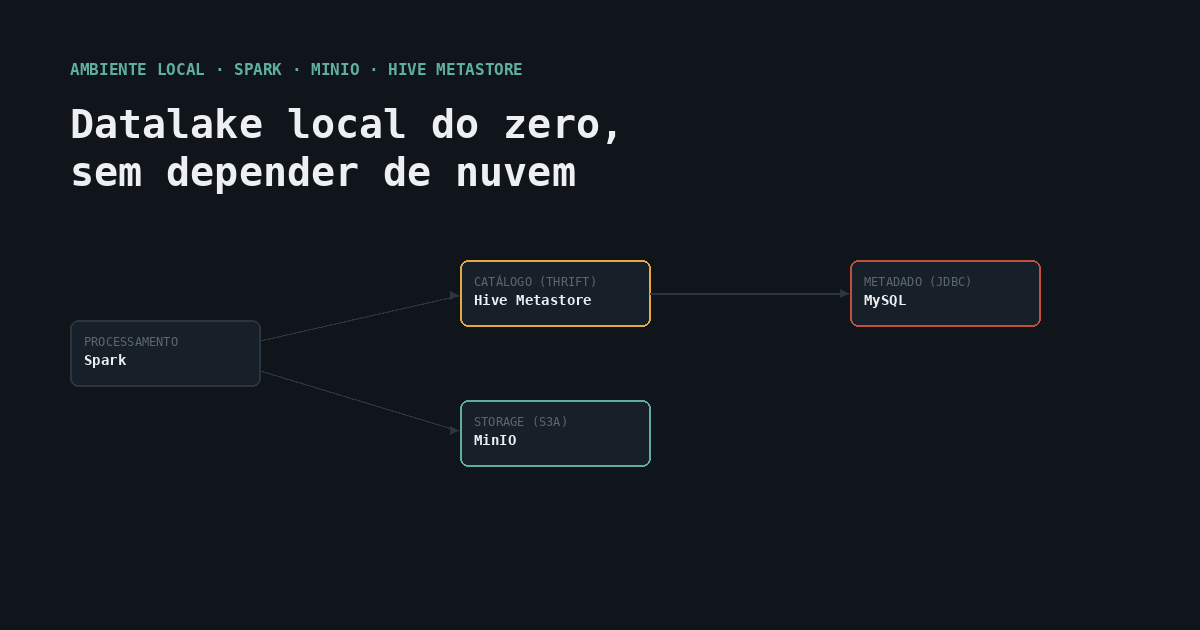
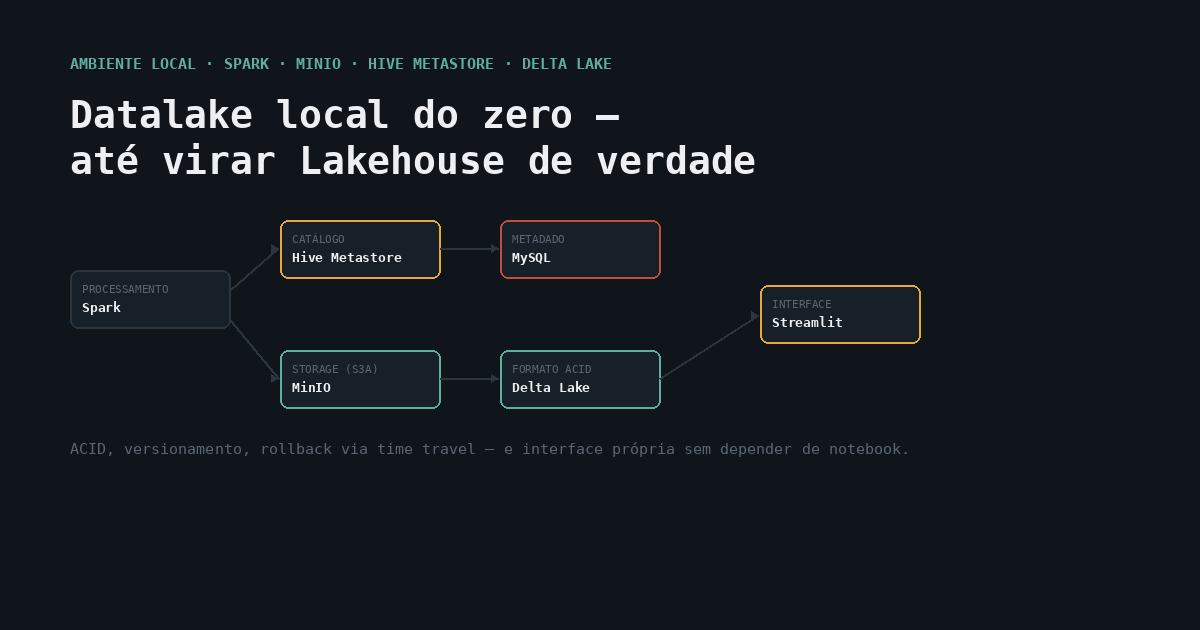
Add files via upload

diff --git a/datalake_local.html b/datalake_local.html
@@ -3,11 +3,11 @@
 <head>
 <meta charset="UTF-8">
 <meta name="viewport" content="width=device-width, initial-scale=1.0">
-<title>Ed Kazuo Kuno — Datalake local do zero: Spark + MinIO + Hive Metastore</title>
+<title>Ed Kazuo Kuno — Datalake local do zero: Spark, MinIO, Hive Metastore, Delta Lake e Streamlit</title>
 
 <meta property="og:type" content="website">
-<meta property="og:title" content="Datalake local do zero: Spark + MinIO + Hive Metastore (MySQL, não Derby)">
-<meta property="og:description" content="Setup completo de ambiente Lakehouse local em Linux — e por que Derby, o metastore padrão do Hive, não serve para nada além de teste isolado de uma sessão.">
+<meta property="og:title" content="Datalake local do zero: Spark, MinIO, Delta Lake e Streamlit">
+<meta property="og:description" content="Setup completo de ambiente Lakehouse local em Linux — MySQL no lugar de Derby, ACID e rollback via Delta Lake, e interface em Streamlit por cima.">
 <meta property="og:image" content="https://edkazuo.github.io/services/cover_datalake_local.png">
 <meta property="og:url" content="https://edkazuo.github.io/services/datalake_local.html">
 <meta name="twitter:card" content="summary_large_image">
@@ -105,9 +105,9 @@
 
 <header class="hero">
   <div class="wrap">
-    <div class="eyebrow">Ambiente Local · Spark · MinIO · Hive Metastore</div>
-    <h1>Datalake local do zero, sem depender de nuvem</h1>
-    <p class="lede">Spark para processar, MinIO como storage compatível com S3, e Hive Metastore com <strong>MySQL</strong> — não Derby — como catálogo. Tudo rodando num único Linux, replicando a arquitetura de um Lakehouse de verdade em escala reduzida.</p>
+    <div class="eyebrow">Ambiente Local · Spark · MinIO · Hive Metastore · Delta Lake</div>
+    <h1>Datalake local do zero — até virar Lakehouse de verdade</h1>
+    <p class="lede">Spark para processar, MinIO como storage compatível com S3, Hive Metastore com <strong>MySQL</strong> como catálogo, <strong>Delta Lake</strong> trazendo transação ACID e versionamento — e uma interface em Streamlit por cima, pra não depender de notebook pra explorar o dado.</p>
 
     <div class="diagram-window">
       <div class="diagram-titlebar">
@@ -170,6 +170,25 @@
       <div class="label">O erro que aparece na prática</div>
       <pre>ERROR XSDB6: Another instance of Derby may have already booted
 the database /home/user/metastore_db.</pre>
+    </div>
+  </div>
+</section>
+
+<section class="delta-acid">
+  <div class="wrap">
+    <div class="eyebrow">Por que Delta Lake</div>
+    <h2>O mundo analytics nunca teve "commit" e "rollback" — até agora</h2>
+    <p class="section-lede">Banco transacional sempre teve essa garantia embutida: ou a transação inteira acontece, ou nada acontece, e dá pra desfazer. Parquet puro sobre um data lake nunca teve isso.</p>
+
+    <div class="cs-grid">
+      <div class="cs-card challenge">
+        <div class="cs-label">Parquet puro (sem Delta)</div>
+        <p>Escrita não é atômica entre múltiplos arquivos — um job que falha no meio pode deixar dado parcial. Não existe isolamento entre quem lê e quem escreve. E se um <code>OVERWRITE</code> ou <code>UPDATE</code> sair errado, <strong>não existe "desfazer"</strong> — só reprocessar tudo de novo a partir da fonte, se ainda existir.</p>
+      </div>
+      <div class="cs-card solution">
+        <div class="cs-label">Delta Lake</div>
+        <p>Mantém um log de transação (<code>_delta_log</code>) por trás do Parquet — cada escrita vira uma <strong>versão nova, atômica</strong>. Isso dá exatamente o que faltava: <code>MERGE</code>/<code>UPDATE</code>/<code>DELETE</code> com garantia ACID, e <strong>time travel</strong> — a capacidade real de voltar para qualquer versão anterior da tabela.</p>
+      </div>
     </div>
   </div>
 </section>
@@ -285,6 +304,116 @@ spark.sql(<span class="str">"INSERT INTO vendas VALUES (1, 99.90)"</span>)</pre>
 <span class="cm"># com Derby, a sessão 2 nem conseguiria abrir. Com MySQL, funciona.</span></pre>
         </div>
       </li>
+
+      <li class="step">
+        <div class="step-head"><span class="step-num mono">06</span><span class="step-title">Adicionar Delta Lake ao Spark</span></div>
+        <div class="step-body">Duas configurações extras habilitam o formato Delta — depois disso, toda tabela criada com <code style="font-family:'IBM Plex Mono',monospace;color:var(--mint);">USING DELTA</code> passa a ter transação ACID e versionamento automático.</div>
+        <div class="snippet">
+          <div class="snippet-title">spark-defaults.conf — acrescentar</div>
+          <pre>spark.jars.packages                      <span class="str">io.delta:delta-spark_2.12:3.2.0</span>
+spark.sql.extensions                     <span class="str">io.delta.sql.DeltaSparkSessionExtension</span>
+spark.sql.catalog.spark_catalog          <span class="str">org.apache.spark.sql.delta.catalog.DeltaCatalog</span></pre>
+        </div>
+        <div class="snippet">
+          <div class="snippet-title">pyspark — recriando a tabela em Delta</div>
+          <pre>spark.sql(<span class="str">"""
+    CREATE TABLE vendas (id INT, valor DOUBLE)
+    USING DELTA
+    LOCATION 's3a://warehouse/vendas'
+"""</span>)</pre>
+        </div>
+      </li>
+
+      <li class="step">
+        <div class="step-head"><span class="step-num mono">07</span><span class="step-title">Provar o rollback de verdade</span></div>
+        <div class="step-body">O teste que mostra o ganho real: gerar um "erro de produção", e voltar no tempo sem precisar reprocessar nada.</div>
+        <div class="snippet">
+          <div class="snippet-title">pyspark — o "oops"</div>
+          <pre>spark.sql(<span class="str">"INSERT INTO vendas VALUES (1, 99.90), (2, 150.00)"</span>)
+
+<span class="cm"># alguém roda um UPDATE errado em produção</span>
+spark.sql(<span class="str">"UPDATE vendas SET valor = 0"</span>)  <span class="cm"># zerou tudo, por engano</span></pre>
+        </div>
+        <div class="snippet">
+          <div class="snippet-title">pyspark — o rollback</div>
+          <pre><span class="cm"># ver o histórico de versões da tabela</span>
+spark.sql(<span class="str">"DESCRIBE HISTORY vendas"</span>).show()
+
+<span class="cm"># consultar como estava ANTES do erro, sem restaurar nada ainda</span>
+spark.sql(<span class="str">"SELECT * FROM vendas VERSION AS OF 1"</span>).show()
+
+<span class="cm"># restaurar a tabela de verdade para aquela versão -- o "rollback"</span>
+spark.sql(<span class="str">"RESTORE TABLE vendas TO VERSION AS OF 1"</span>)</pre>
+        </div>
+      </li>
+
+      <li class="step">
+        <div class="step-head"><span class="step-num mono">08</span><span class="step-title">Interface em Streamlit</span></div>
+        <div class="step-body">Sem precisar subir uma sessão Spark inteira só pra visualizar — a biblioteca <code style="font-family:'IBM Plex Mono',monospace;color:var(--mint);">deltalake</code> (bindings Rust) lê a tabela direto do MinIO, leve o suficiente para uma interface web simples.</div>
+        <div class="snippet">
+          <div class="snippet-title">bash</div>
+          <pre><span class="kw">pip</span> install streamlit deltalake pandas</pre>
+        </div>
+        <div class="snippet">
+          <div class="snippet-title">app.py</div>
+          <pre><span class="kw">import</span> streamlit <span class="kw">as</span> st
+<span class="kw">import</span> os
+<span class="kw">from</span> deltalake <span class="kw">import</span> DeltaTable
+
+os.environ[<span class="str">"AWS_ACCESS_KEY_ID"</span>] = <span class="str">"minioadmin"</span>
+os.environ[<span class="str">"AWS_SECRET_ACCESS_KEY"</span>] = <span class="str">"minioadmin"</span>
+os.environ[<span class="str">"AWS_ENDPOINT_URL"</span>] = <span class="str">"http://localhost:9000"</span>
+os.environ[<span class="str">"AWS_ALLOW_HTTP"</span>] = <span class="str">"true"</span>
+
+st.title(<span class="str">"Vendas — Lakehouse local"</span>)
+
+dt = DeltaTable(<span class="str">"s3://warehouse/vendas"</span>)
+versao = st.select_slider(
+    <span class="str">"Versão (time travel)"</span>,
+    options=<span class="kw">list</span>(<span class="kw">range</span>(dt.version() + 1)),
+    value=dt.version(),
+)
+
+dt_versionada = DeltaTable(<span class="str">"s3://warehouse/vendas"</span>, version=versao)
+st.dataframe(dt_versionada.to_pandas())
+st.caption(<span class="str">f"Exibindo versão {versao} de {dt.version()}"</span>)</pre>
+        </div>
+        <div class="snippet">
+          <div class="snippet-title">bash — subir a interface</div>
+          <pre><span class="kw">streamlit</span> run app.py</pre>
+        </div>
+      </li>
+
+      <li class="step">
+        <div class="step-head"><span class="step-num mono">09</span><span class="step-title">Consultar via DBeaver (ou qualquer cliente SQL)</span></div>
+        <div class="step-body">Streamlit é ótimo pra visualização fixa, mas analista de negócio geralmente quer SQL livre, num cliente que já conhece. Isso exige uma peça diferente do Hive Metastore Thrift (que só serve metadado): o <strong>Spark Thrift Server</strong>, que expõe o Spark inteiro via JDBC/ODBC.</div>
+        <div class="snippet">
+          <div class="snippet-title">bash — subir o Spark Thrift Server</div>
+          <pre><span class="cm"># usa a mesma config do spark-defaults.conf já configurada</span>
+$SPARK_HOME/sbin/start-thriftserver.sh \
+  --hiveconf hive.server2.thrift.port=10000 \
+  --hiveconf hive.server2.thrift.bind.host=0.0.0.0</pre>
+        </div>
+        <div class="snippet">
+          <div class="snippet-title">DBeaver — configuração da conexão</div>
+          <pre><span class="cm"># Nova Conexão → Apache Hive (o driver do Hive fala com Spark Thrift Server)</span>
+Host:      <span class="str">localhost</span>
+Porta:     <span class="str">10000</span>
+Banco:     <span class="str">default</span>
+Usuário:   <span class="str">(deixe em branco ou "anonymous")</span>
+
+<span class="cm"># DBeaver baixa o driver JDBC do Hive automaticamente na primeira conexão</span></pre>
+        </div>
+        <div class="snippet">
+          <div class="snippet-title">DBeaver — SQL editor, já enxergando o catálogo do MySQL</div>
+          <pre><span class="kw">SHOW</span> TABLES;
+<span class="kw">SELECT</span> * <span class="kw">FROM</span> vendas <span class="kw">VERSION</span> <span class="kw">AS</span> <span class="kw">OF</span> 1;
+<span class="cm">-- time travel funciona igual, direto do DBeaver, sem PySpark nenhum</span></pre>
+        </div>
+        <div class="note" style="margin-top: 16px;">
+          Diferença importante: Hive Metastore Thrift (porta 9083) só serve <strong>metadado</strong> — schema, localização de tabela. Spark Thrift Server (porta 10000) executa <strong>SQL de verdade</strong> — é ele quem o DBeaver precisa, não o metastore diretamente.
+        </div>
+      </li>
     </ol>
 
     <div class="note">
@@ -298,7 +427,7 @@ spark.sql(<span class="str">"INSERT INTO vendas VALUES (1, 99.90)"</span>)</pre>
     <div class="statusbar">
       <span><span class="ok">●</span> tema: ambiente de dados local</span>
       <span>·</span>
-      <span>stack: spark · minio · hive metastore · mysql · thrift</span>
+      <span>stack: spark · minio · hive metastore · mysql · delta lake · streamlit · thrift server</span>
       <span>·</span>
       <span><a href="index.html" style="color: inherit; text-decoration: underline;">ver outros projetos ↗</a></span>
     </div>

diff --git a/index.html b/index.html
@@ -340,8 +340,8 @@ SAS → Databricks · PySpark · Spark SQL · Lakehouse</div>
 
       <a class="project-card" href="datalake_local.html">
         <div class="project-tag">Ambiente Local</div>
-        <div class="project-title">Datalake local do zero, sem depender de nuvem</div>
-        <div class="project-desc">Spark, MinIO e Hive Metastore com MySQL — e por que Derby não serve para multiusuário.</div>
+        <div class="project-title">Datalake local do zero, até virar Lakehouse de verdade</div>
+        <div class="project-desc">Spark, MinIO, Hive Metastore, Delta Lake com rollback, Streamlit e acesso via DBeaver.</div>
         <div class="project-metric">→ ver guia completo</div>
       </a>
 
